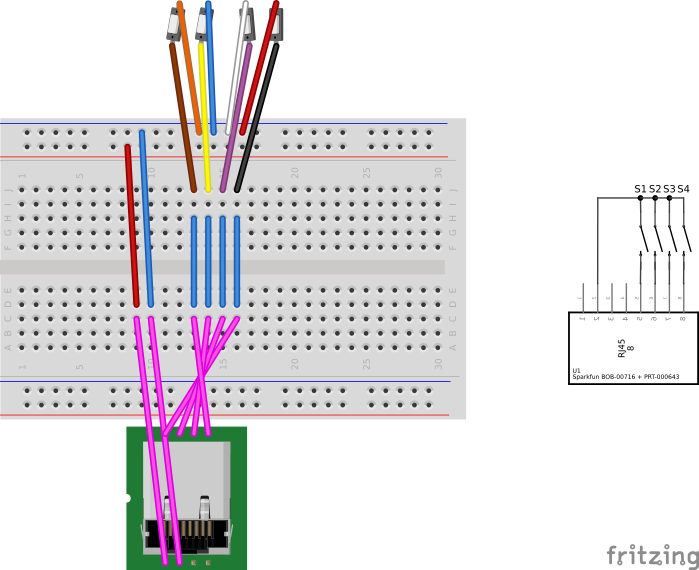
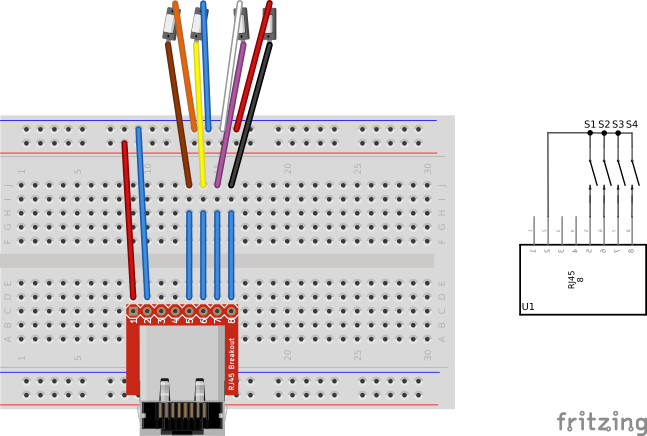
non-placeholder rj45 part

diff --git a/README.md b/README.md
@@ -6,7 +6,7 @@ Sucessfully used by me to achieve fully-automatic zero-intervention watering ove
 
 ## How it Works
 
-The watering device, consisting of a bucket of water and the main circuitry, sits next to the tree in a box disguised as a Christmas present. Water level sensors are mounted in the tree stand and connected to the Arduino over a CAT5 ("ethernet", except it's not carrying ethernet data) cable. When the sensors detect a low water level in the stand, the controller turns on a small water pump in the bucket to pump water into the stand through a length of plastic tubing. It then turns the pump off when the water level sensors again detect water.
+The watering device, consisting of a bucket of water and the main circuitry, sits next to the tree in a box disguised as a Christmas present. Water level sensors are mounted in the tree stand and connected to the Arduino over a Cat 5 cable. When the sensors detect a low water level in the stand, the controller turns on a small water pump in the bucket to pump water into the stand through a length of plastic tubing. It then turns the pump off when the water level sensors again detect water.
 
 The water sensors have four times redundancy, any one of them being enough to stop the pump, ensuring that a sensor failure is unlikely to overflow the stand and ruin the floor or surrounding gifts. Additionally, the sensors are "normally closed", meaning that accidentally unplugging them reads as "stand water full" to the controller, again ensuring that hardware failures don't ruin Christmas.
 
@@ -16,7 +16,7 @@ Each of the four water level sensors in the stand has a corresponding green LED 
 
 The pump (shown below with a placeholder motor image) connects to the board through a spring terminal block. The block also has spots to plug in water level sensors to use in the bucket, but they are unused in this version.
 
-The sensor board connects via an RJ45 jack (shown in the below image off to the side. It has a breakout PCB that plugs directly into the beadboard, as seen in the photos [coming soon]).
+The sensor board connects via an RJ45 jack.
 
 ### Breadboard view
 
